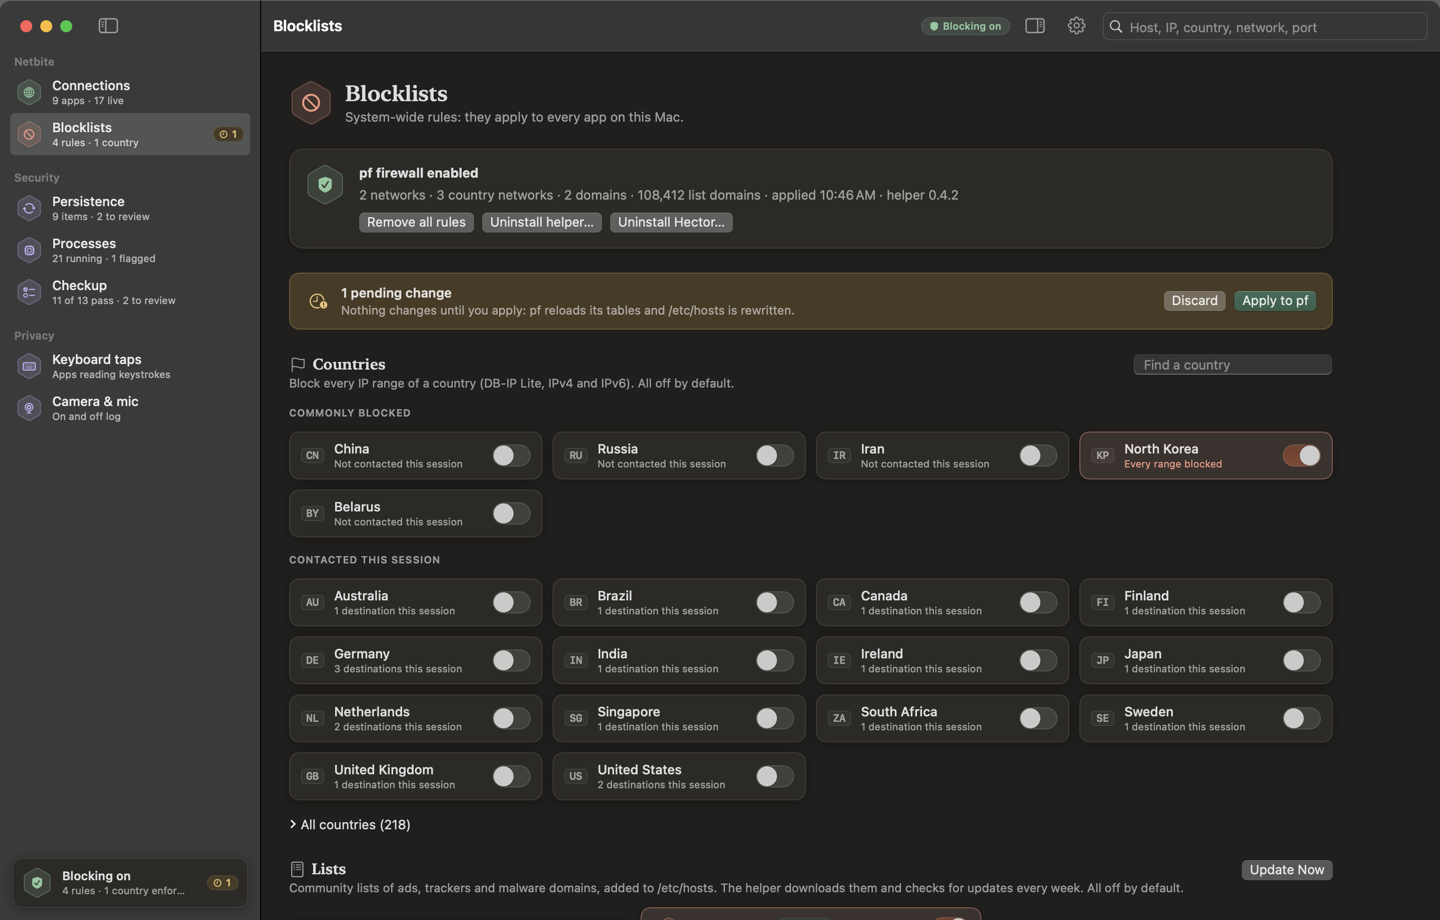
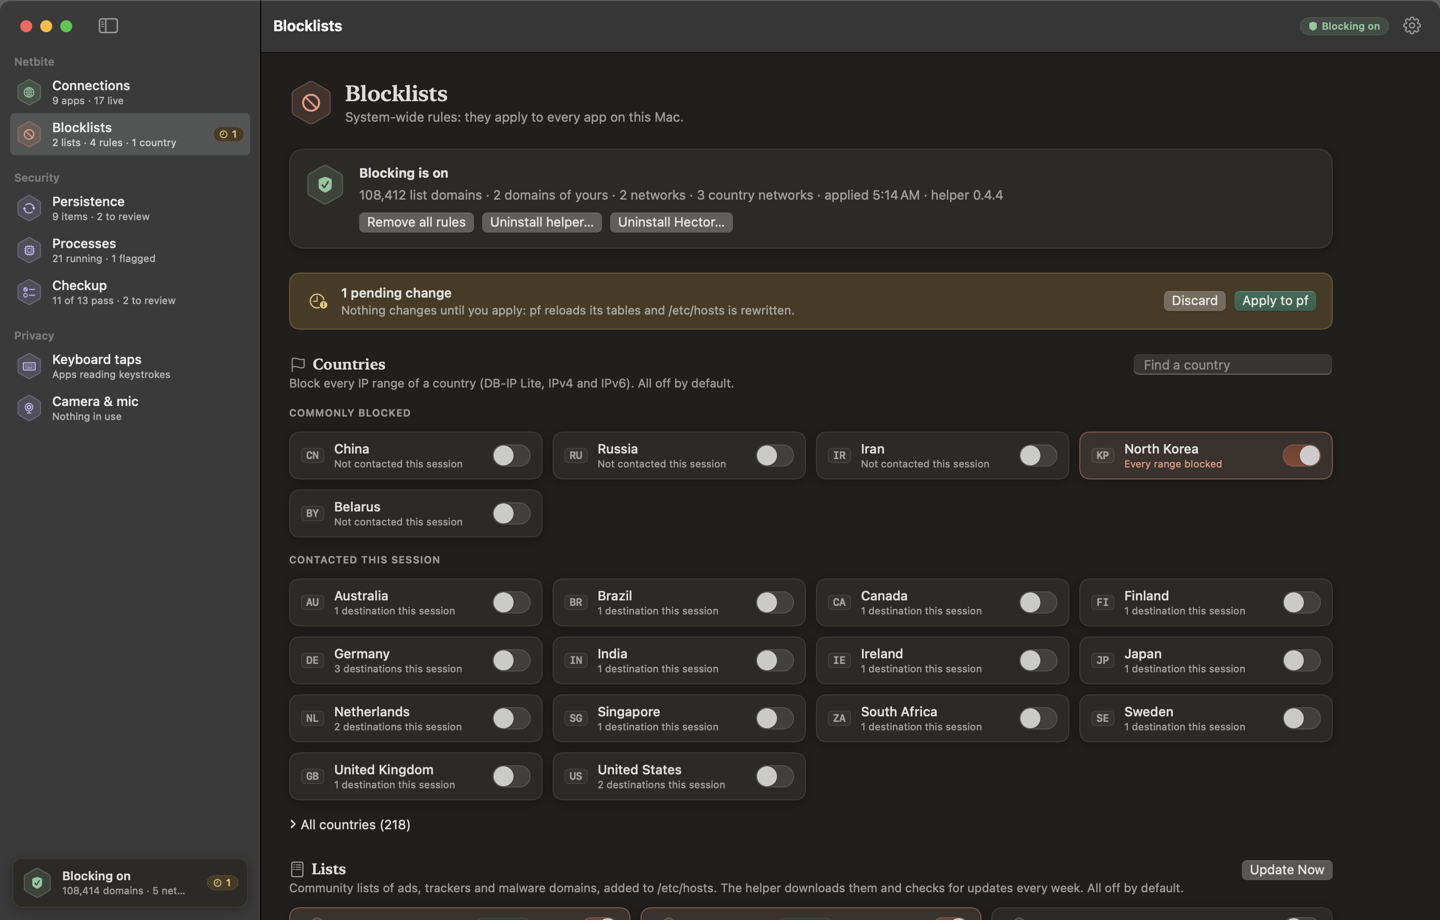
Details panels: one state per screen (switching screens closed the new one); README images regenerated; notes

diff --git a/Sources/HectorApp/Views/ContentView.swift b/Sources/HectorApp/Views/ContentView.swift
@@ -31,16 +31,14 @@ struct ContentView: View {
         }
     }
 
-    /// Whether the current screen has something selected for its details panel. The panel opens
-    /// on a selection and stays closed otherwise, instead of a quarter of the window saying
-    /// "nothing selected".
-    private var screenHasSelection: Bool {
+    /// Shows or hides the current screen's details panel.
+    private func toggleDetails() {
         switch state.sidebarSelection {
-        case .persistence: state.selectedPersistenceItem != nil
-        case .processes: state.selectedProcess != nil
-        case .keyboardTaps: privacy.selectedTap != nil
-        case .blocklists, .checkup, .captureDevices: false
-        default: state.selectedDestination != nil
+        case .persistence: state.showPersistenceDetails.toggle()
+        case .processes: state.showProcessDetails.toggle()
+        case .keyboardTaps: state.showTapDetails.toggle()
+        case .blocklists, .checkup, .captureDevices: break
+        default: state.showInspector.toggle()
         }
     }
 
@@ -127,7 +125,7 @@ struct ContentView: View {
                 }
                 if hasSearchAndDetails {
                     Button {
-                        state.showInspector.toggle()
+                        toggleDetails()
                     } label: {
                         Label("Details", systemImage: "sidebar.trailing")
                     }
@@ -145,6 +143,8 @@ struct ContentView: View {
             if DemoData.isEnabled {
                 state.selectedPersistenceItem = DemoData.selectedPersistenceItem
                 state.selectedProcess = DemoData.selectedProcess
+                // The sample tree is small: show it whole, and the details of the selected item.
+                state.processesShowApple = true
             }
             if DebugSnapshot.opensSettings { openSettings() }
             if let country = DebugSnapshot.country {
@@ -164,18 +164,15 @@ struct ContentView: View {
         #endif
         .sheet(isPresented: $state.showUninstall) { UninstallSheet() }
         // Snapshots only as often as someone can see them: see ConnectionMonitor.Demand.
-        .onAppear {
-            updateDemand()
-            state.showInspector = screenHasSelection
-        }
+        .onAppear(perform: updateDemand)
         .onChange(of: state.sidebarSelection) {
             updateDemand()
             state.search = ""
-            state.showInspector = screenHasSelection
         }
-        .onChange(of: state.selectedPersistenceItem) { if state.selectedPersistenceItem != nil { state.showInspector = true } }
-        .onChange(of: state.selectedProcess) { if state.selectedProcess != nil { state.showInspector = true } }
-        .onChange(of: privacy.selectedTap) { if privacy.selectedTap != nil { state.showInspector = true } }
+        // A pick opens that screen's details panel.
+        .onChange(of: state.selectedPersistenceItem) { if state.selectedPersistenceItem != nil { state.showPersistenceDetails = true } }
+        .onChange(of: state.selectedProcess) { if state.selectedProcess != nil { state.showProcessDetails = true } }
+        .onChange(of: privacy.selectedTap) { if privacy.selectedTap != nil { state.showTapDetails = true } }
         .onChange(of: state.selectedDestination) { if state.selectedDestination != nil { state.showInspector = true } }
         // Closed while Hector stays in the menu bar: back to the slow pace at once.
         .onDisappear { monitor.demand = .hidden }

diff --git a/Sources/HectorApp/Security/ProcessesView.swift b/Sources/HectorApp/Security/ProcessesView.swift
@@ -42,7 +42,7 @@ struct ProcessesView: View {
             }
         }
         .fillsSplitPane()
-        .inspector(isPresented: $state.showInspector) {
+        .inspector(isPresented: $state.showProcessDetails) {
             ProcessDetailView(security: security, row: selectedRow)
                 .fillsSplitPane()
                 .inspectorColumnWidth(min: 300, ideal: 340, max: 460)
@@ -55,11 +55,12 @@ struct ProcessesView: View {
     private func header(rows: [ProcessRow]) -> some View {
         @Bindable var state = state
         return ScreenHeader("Running processes", subtitle: summary, systemImage: "cpu", tint: .hectorInfo, pinned: true) {
-            Toggle("Apple", isOn: $state.processesShowApple).toggleStyle(.checkbox)
+            Toggle("Apple", isOn: $state.processesShowApple).toggleStyle(.checkbox).fixedSize()
                 .help("Show Apple's own processes (from /System, /usr, /bin and /sbin)")
-            Toggle("Tree", isOn: $state.processesAsTree).toggleStyle(.checkbox)
+            Toggle("Tree", isOn: $state.processesAsTree).toggleStyle(.checkbox).fixedSize()
                 .help("Show children under their parent process")
-            Toggle("Flagged only", isOn: $state.processesFlaggedOnly).toggleStyle(.checkbox)
+            Toggle("Flagged", isOn: $state.processesFlaggedOnly).toggleStyle(.checkbox).fixedSize()
+                .help("Only processes running from a temporary, Downloads or hidden folder, or deleted code")
             if security.isCheckingAll {
                 Button("Stop VirusTotal") { security.cancelVirusTotal() }
             } else {
@@ -70,7 +71,7 @@ struct ProcessesView: View {
                         return security.signature(of: path)?.trustLevel == .apple ? nil : path
                     })
                 } label: {
-                    Label("Check with VirusTotal", systemImage: "shield.lefthalf.filled")
+                    Label("VirusTotal", systemImage: "shield.lefthalf.filled").fixedSize()
                 }
                 .disabled(!security.hasAPIKey)
                 .help(security.hasAPIKey ? "Look up every listed non-Apple executable (hashes only, 4 per minute)"

diff --git a/Sources/HectorApp/Security/PersistenceView.swift b/Sources/HectorApp/Security/PersistenceView.swift
@@ -61,7 +61,7 @@ struct PersistenceView: View {
             }
         }
         .fillsSplitPane()
-        .inspector(isPresented: $state.showInspector) {
+        .inspector(isPresented: $state.showPersistenceDetails) {
             PersistenceDetailView(security: security, item: selectedItem)
                 .fillsSplitPane()
                 .inspectorColumnWidth(min: 300, ideal: 340, max: 460)
@@ -76,7 +76,8 @@ struct PersistenceView: View {
         return VStack(alignment: .leading, spacing: Spacing.sm) {
             ScreenHeader("What starts by itself", subtitle: summary(items), systemImage: "arrow.triangle.2.circlepath",
                          tint: .hectorInfo, pinned: true) {
-                Toggle("Show Apple items", isOn: $security.includeAppleItems)
+                Toggle("Apple", isOn: $security.includeAppleItems).fixedSize()
+                    .help("Show Apple's own launch items and extensions")
                     .toggleStyle(.checkbox)
                     .onChange(of: security.includeAppleItems) { Task { await security.scanPersistence() } }
                 checkAllButton(items)
@@ -104,7 +105,7 @@ struct PersistenceView: View {
             Button {
                 security.checkAllVirusTotal(paths: items.filter { $0.scope != .apple }.compactMap(SecurityController.codePath(of:)))
             } label: {
-                Label("Check all with VirusTotal", systemImage: "shield.lefthalf.filled")
+                Label("VirusTotal", systemImage: "shield.lefthalf.filled").fixedSize()
             }
             .disabled(!security.hasAPIKey)
             .help(security.hasAPIKey ? "Look up every third-party item (hashes only, 4 per minute)"

diff --git a/Sources/HectorApp/Views/WindowState.swift b/Sources/HectorApp/Views/WindowState.swift
@@ -25,7 +25,13 @@ final class WindowState {
     /// The viewport when the current pinch or drag began.
     var mapGestureStart: MapViewport?
     var search = ""
-    var showInspector = true
+    /// Details panels, one per screen: a screen's panel opens when something is picked there,
+    /// and switching screens cannot close another screen's panel (an inspector that goes away
+    /// writes `false` to its binding).
+    var showInspector = false
+    var showPersistenceDetails = false
+    var showProcessDetails = false
+    var showTapDetails = false
     // Blocklists screen
     var countrySearch = ""
     var showAllCountries = false

diff --git a/Sources/HectorApp/Privacy/KeyboardTapsView.swift b/Sources/HectorApp/Privacy/KeyboardTapsView.swift
@@ -52,7 +52,7 @@ struct KeyboardTapsView: View {
             content(taps)
         }
         .fillsSplitPane()
-        .inspector(isPresented: $state.showInspector) {
+        .inspector(isPresented: $state.showTapDetails) {
             KeyboardTapDetailView(security: security, tap: selectedTap)
                 .fillsSplitPane()
                 .inspectorColumnWidth(min: 300, ideal: 340, max: 460)

diff --git a/docs/NEXT_STEPS.md b/docs/NEXT_STEPS.md
@@ -15,6 +15,8 @@ Hand-off notes for the next working session. The roadmap ([ROADMAP.md](ROADMAP.m
 
 0. **Where to resume (2026-10-04, late).** `main` is 0.4.1, pushed, CI green, not tagged. Helper 0.4.1 installed on the owner's Mac; EasyPrivacy enabled and applied through the unprivileged download (43,112 domains). Next: tag `v0.4.1` and release; then the remaining hardening items at the top of ROADMAP.md (sandbox profile, camera poll), then make the repository public; then the "local Pi-hole" feature.
 
+0. **v0.4.4 (2026-10-05).** Menu bar mode (0.4.3), allowlist and HaGeZi Light, the UI items of the screen review, opt-in automatic VirusTotal lookups, map keyboard shortcuts. To check on the owner's Mac: update the helper (protocol 3, needed for the allowlist); add an allowlist entry and Apply, then see its effect line in Blocklists; "Open Hector at login" starts Hector in the menu bar only after a real login; the map shortcuts (⌘= ⌘- ⌘9 ⌘0). Still open from the review: DNS names per connection (resolver), the remaining Checkup checks, Persistence actions, notifications. Repository still private; public once the owner says so.
+
 0. **Released v0.4.2 (2026-10-04).** README with logo and demo-mode screenshots (`HECTOR_DEMO=1`, `scripts/readme-images.sh`); Settings → General → Open Hector at login (not yet clicked through in the app); a review of every screen on real data is in ROADMAP.md. Local Pi-hole: design in [LOCAL_DNS.md](LOCAL_DNS.md) and pure core code (DNS parser, `DomainSet`/`DomainPolicy`, Adblock parser, mDNSResponder attribution), merged; its phase 0 needs root (override mechanism, upstream message ID). Its open questions are listed at the end of that document. Repository still private.
 
 0. **Sandbox and camera poll (2026-10-04, 0.4.2).** `hectord serve` applies `HelperSandboxProfile` (Sources/HectorCore/Helper/HelperSandboxProfile.swift) with `sandbox_init` before anything else; `hectord sandbox-profile` prints it. Checked as a normal user: a dry run with EasyPrivacy (download child, writes, apply) works inside the sandbox; `sandbox-exec` with the system profile runs pfctl, dscacheutil, killall and sfltool and refuses `touch` and `sh`; a test runs a dry-run profile for real. **Checked as root (2026-10-04 16:48):** helper 0.4.2 "sandboxed"; Apply with both lists (113,627 domains), login items through sfltool; no denial in the system log. Still to check: Remove all rules and Uninstall under the sandbox. (The blocklist found empty before this update came from an uninstall and reinstall by the owner, not a bug.) The camera and microphone monitor now polls only while a microphone is running somewhere (checked: two reads in 7 s with everything off).
